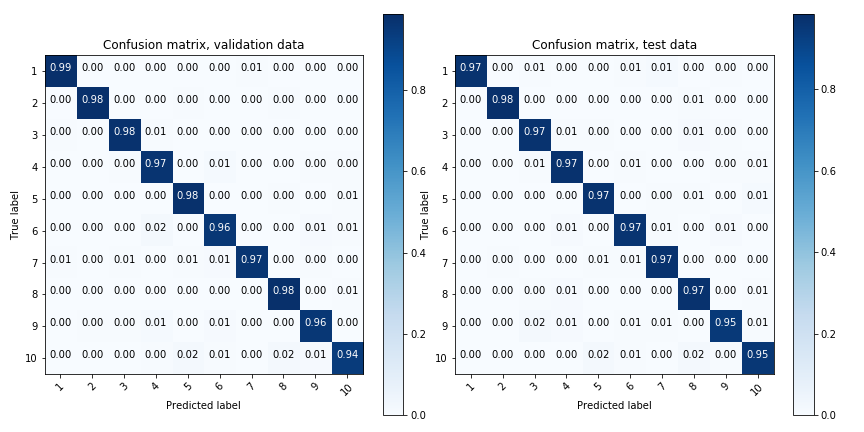
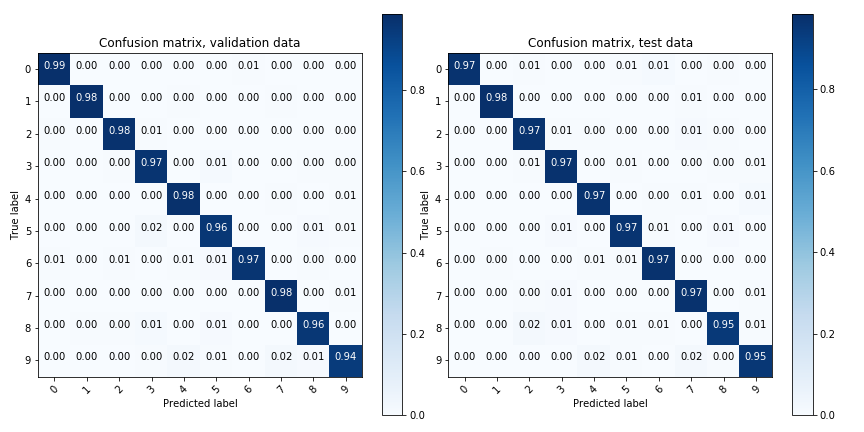
Fine tuning

diff --git a/main.py b/main.py
@@ -57,7 +57,7 @@ def softmax(x):
 data = np.load('mnist.npz')
 # Possible classes
 classes = list(range(10))
-classes_plot = [i + 1 for i in classes]
+classes_plot = classes
 # Set classes used, starting from 0.
 #included_classes = [0, 1, 4, 9] 
 #included_classes = [0, 1, 4, 9, 5, 8]
